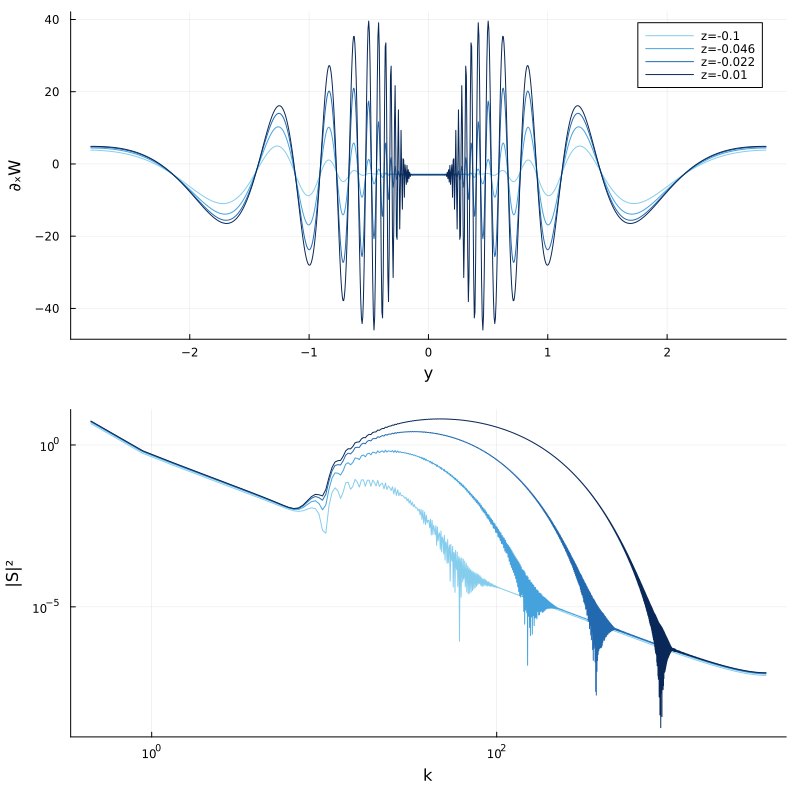
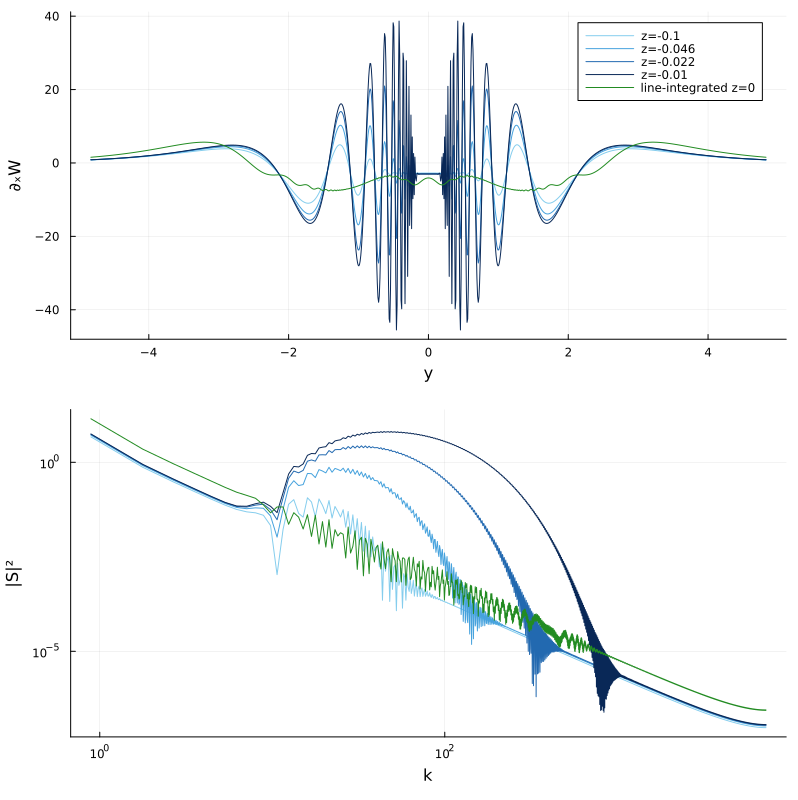
Fix signs by getting the Hankel branch cuts correct

diff --git a/tex/KelvinGreenWriteup.tex b/tex/KelvinGreenWriteup.tex
@@ -245,7 +245,7 @@ to locate the interval boundaries, with safeguards for finite truncation $|t| \l
 
 As a validation, the point-source kernel evaluated on the centerline $y = 0$ with the $t_+ \to \infty$ saddle excluded reduces to a known Bessel function. The contour-deformation scheme reproduces this result to full working precision, confirming correct branch handling and quadrature weights independently of the singular near-centerline behavior.
 
-Values on the order of $\Delta g \approx 5$--$6$ provide accurate evaluations with modest quadrature cost for the point-source kernel.
+Values on the order of $\Delta g \approx 5$--$6$ provide accurate evaluations with modest quadrature cost for the point-source kernel. The speed-up relative to a direct quadrature on the real line depends on the depth $z$: for $z=0\^-$ the point-source kernel has no damping and direct quadrature fails, while for small negative $z$ the contour-deformation method provides a speedup of $10^3$--$10^4$ over direct quadrature with relative errors less than $10^{-8}$.
 
 \subsection{Line-Integrated Kernels and Hankel Decomposition}
 
@@ -253,7 +253,7 @@ The same contour-deformation strategy applies to the line-integrated kernel, ext
 \[
 J_1(z) = \tfrac{1}{2}\!\left(H_1^{(1)}(z)\,e^{iz} + H_1^{(2)}(z)\,e^{-iz}\right).
 \]
-The scaled Hankel functions $H_1^{(1,2)}$ are slowly varying and the exponential factors can be absorbed into the complex phase, producing tail integrals suitable for the same steepest-descent treatment as the previous section. Near $t = 0$, the real-line partition includes a segment on which the Bessel representation is used directly, avoiding the Hankel singularity at the origin. The additional oscillatory structure requires a larger phase separation ($\Delta g \approx 12$) than the point-source case, but the overall algorithmic structure is identical.
+The scaled Hankel functions $H_1^{(1,2)}$ are slowly varying and the exponential factors can be absorbed into the complex phase. The line-integrate kernel is therefore expressed as a sum of two oscillatory integrals with shifted phases $g(x,y \pm b)$. The same partitioning strategy is applied to each phase function to establish the slowly varying ranges. These ranges are then merged, direct quadrature is used on the real line using the Bessel prefactor weighting (which always covers $k=0$ where the Hankel functions are singular), and the Hankel contributions are added together on the semi-infinite tails using the appropriate phase function. The only additional complication is that the Hankel functions have branch cuts along the negative real axis, so the contour deformation must be designed to avoid crossing these cuts. Overall, the line-integral evaluation is around twice as expensive as the point-source evaluation, but provides $10^4$--$10^5$ speedup over direct quadrature on $z=0$.
 
 Note that we can use the same approach for the wave resistance integral~\eqref{eq:Cw} by defining
 \[
